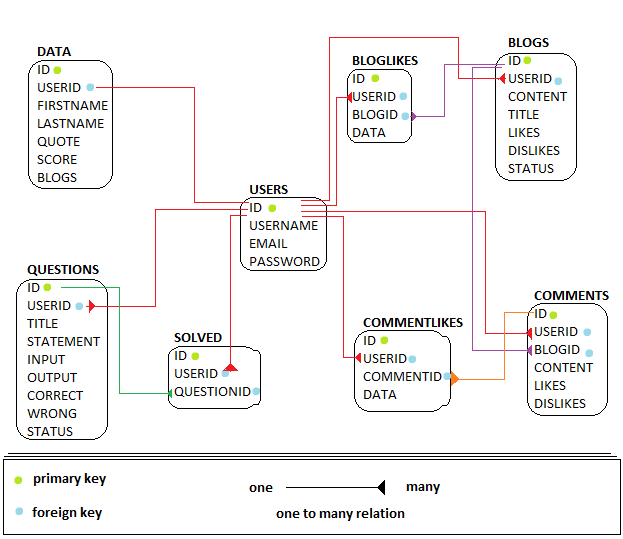
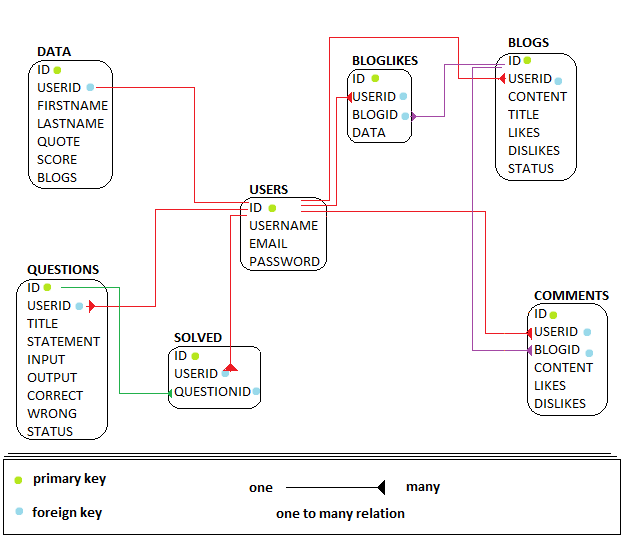
Modified schema

Changed region(s): [[0.549, 0.564, 0.7624, 0.7421]]

diff --git a/backend/dbconn.js b/backend/dbconn.js
@@ -37,9 +37,9 @@ const initialize = async() => {
         .then(() => console.log("Successfully initialized BLOGLIKES table"))
         .catch(err => setImmediate(() => {   throw err }));   
 
-    await conn.query("CREATE TABLE IF NOT EXISTS COMMENTLIKES (ID SERIAL PRIMARY KEY , USERID INTEGER , COMMENTID INTEGER , DATA INTEGER,  FOREIGN KEY(USERID) REFERENCES USERS(ID) , FOREIGN KEY(COMMENTID) REFERENCES COMMENTS(ID));")
+    /*await conn.query("CREATE TABLE IF NOT EXISTS COMMENTLIKES (ID SERIAL PRIMARY KEY , USERID INTEGER , COMMENTID INTEGER , DATA INTEGER,  FOREIGN KEY(USERID) REFERENCES USERS(ID) , FOREIGN KEY(COMMENTID) REFERENCES COMMENTS(ID));")
         .then(() => console.log("Successfully initialized COMMENTLIKESLIKES table"))
-        .catch(err => setImmediate(() => {   throw err }));       
+        .catch(err => setImmediate(() => {   throw err })); */      
 
 
 }
